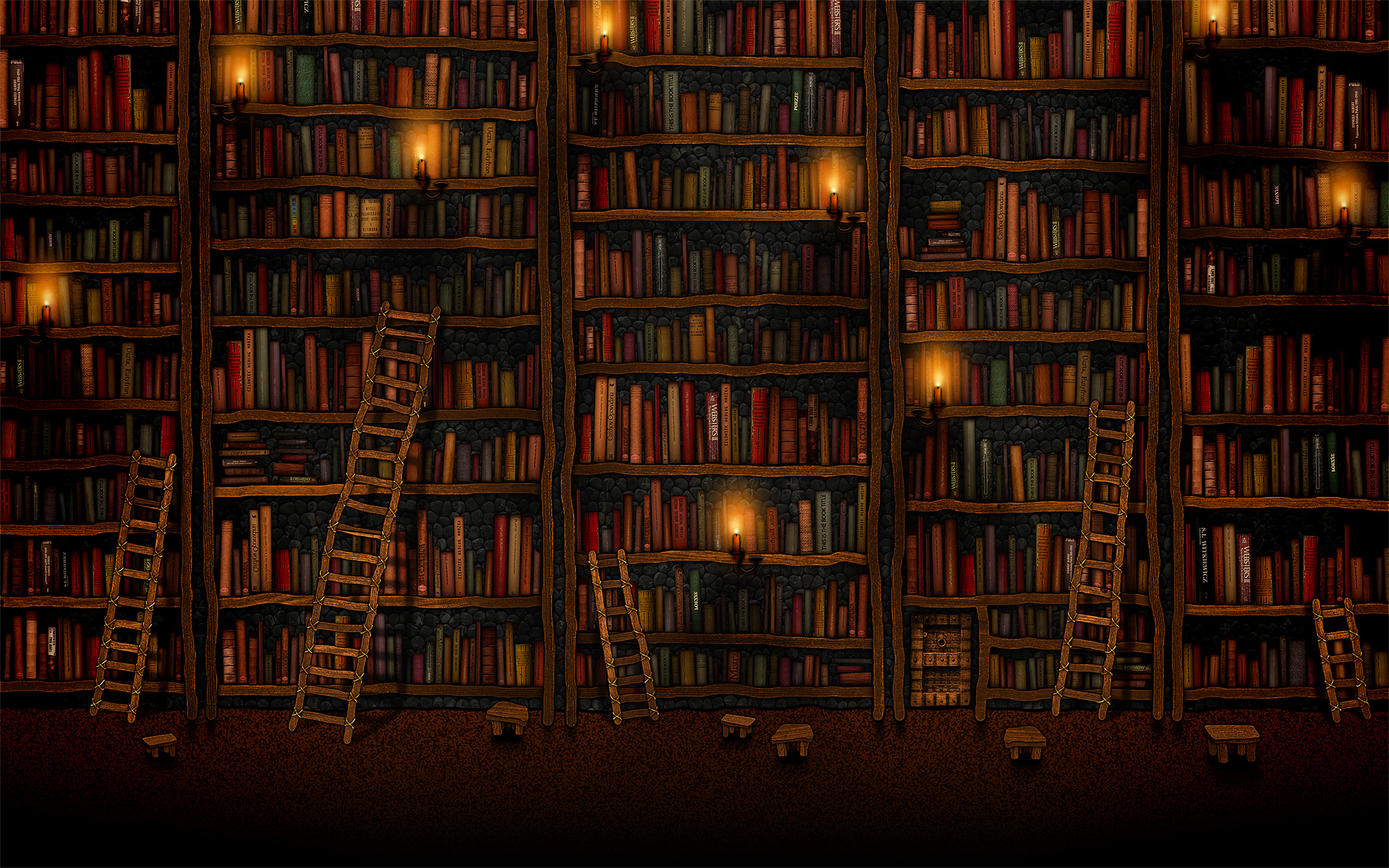
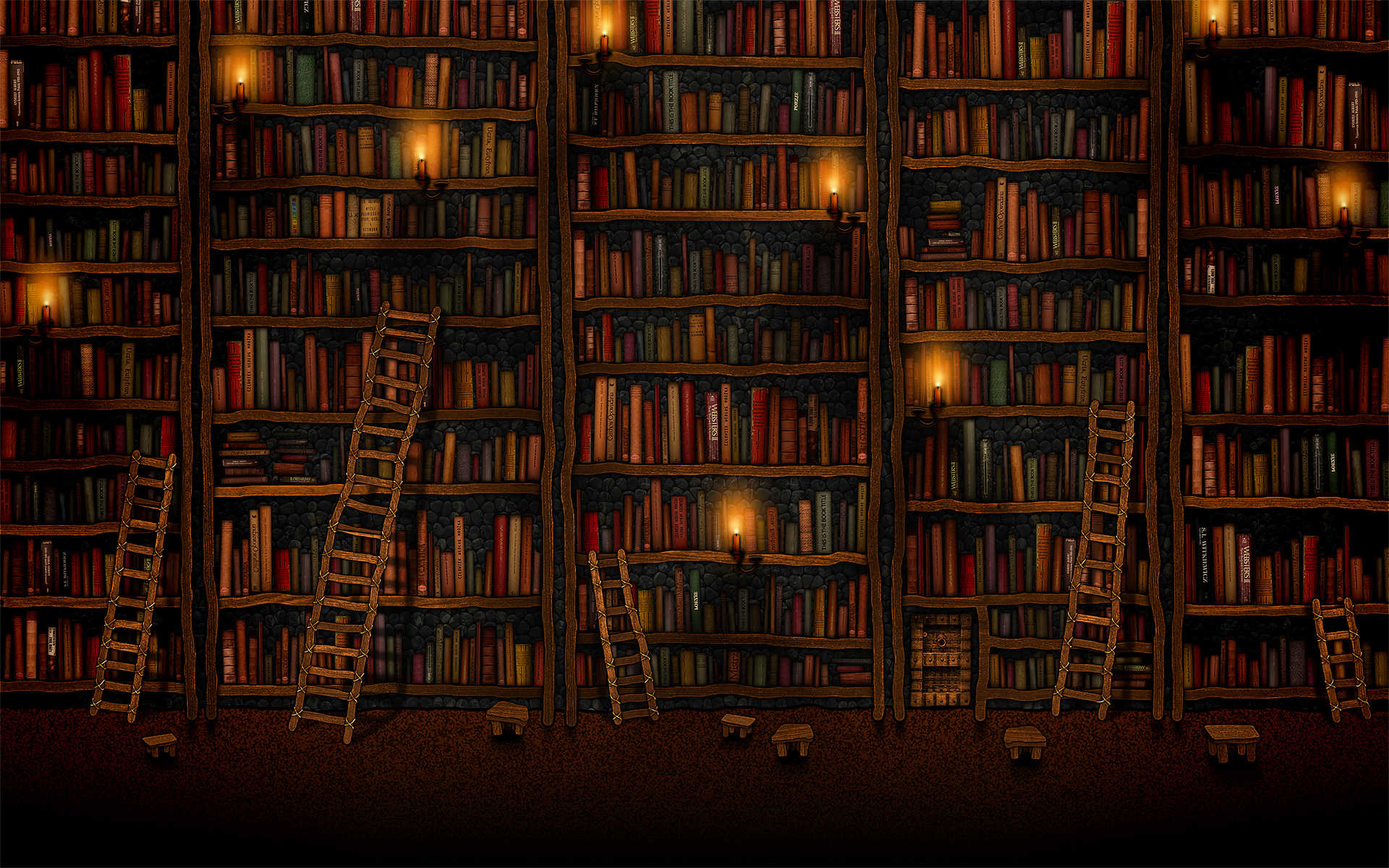
compress books image and remove uneeded jquery-ui dependencies

diff --git a/app/assets/stylesheets/application.css b/app/assets/stylesheets/application.css
@@ -11,7 +11,7 @@
  * It is generally better to create a new file per style scope.
  *
  *= require normalize
- *= require jquery-ui
+ *= require jquery-ui/progressbar
  *= require_tree .
  *= require_self
  */

diff --git a/app/assets/javascripts/application.js b/app/assets/javascripts/application.js
@@ -12,5 +12,5 @@
 //
 //= require jquery
 //= require jquery_ujs
-//= require jquery-ui
+//= require jquery-ui/progressbar
 //= require_tree .
